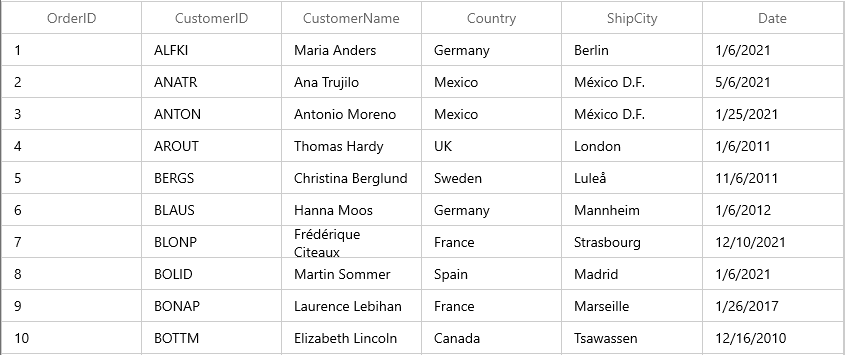
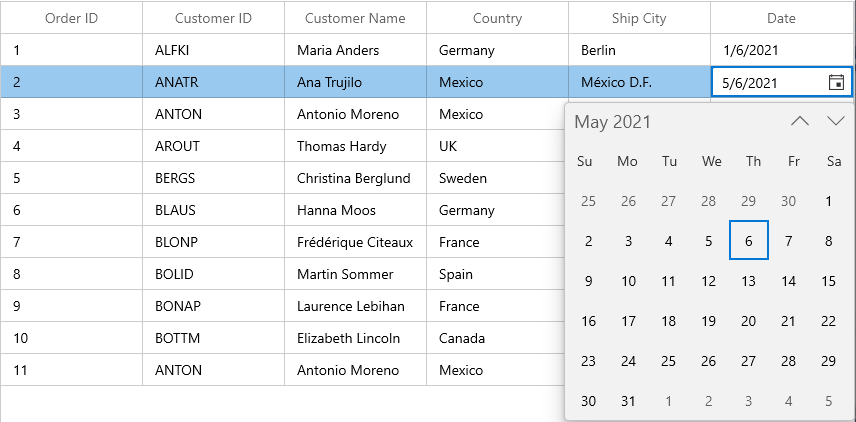
WINUI-1330 - Content modified

diff --git a/winui/DataGrid/Column-Types.md b/winui/DataGrid/Column-Types.md
@@ -682,13 +682,14 @@ this.dataGrid.Columns.Add(new GridTextColumn() { HeaderText = "Ship City", Mappi
 <syncfuion:SfDataGrid x:Name="dataGrid" 
                        ItemsSource="{Binding Orders}"
                        AutoGenerateColumns="False" 
+                      ColumnWidthMode="Star"
                        AllowEditing="True" >
     <syncfuion:SfDataGrid.Columns>
-        <syncfuion:GridTextColumn MappingName="OrderID"  />
-        <syncfuion:GridTextColumn MappingName="CustomerID" />
-        <syncfuion:GridTextColumn MappingName="CustomerName" />
+        <syncfuion:GridTextColumn MappingName="OrderID" HeaderText="Order ID" />
+        <syncfuion:GridTextColumn MappingName="CustomerID" HeaderText="Customer ID" />
+        <syncfuion:GridTextColumn MappingName="CustomerName" HeaderText="Customer Name" />
         <syncfuion:GridTextColumn MappingName="Country" />
-        <syncfuion:GridTextColumn MappingName="ShipCity" />
+        <syncfuion:GridTextColumn MappingName="ShipCity" HeaderText="Ship City" />
         <syncfuion:GridDateColumn MappingName="Date" />
     </syncfuion:SfDataGrid.Columns>
 </syncfuion:SfDataGrid>
